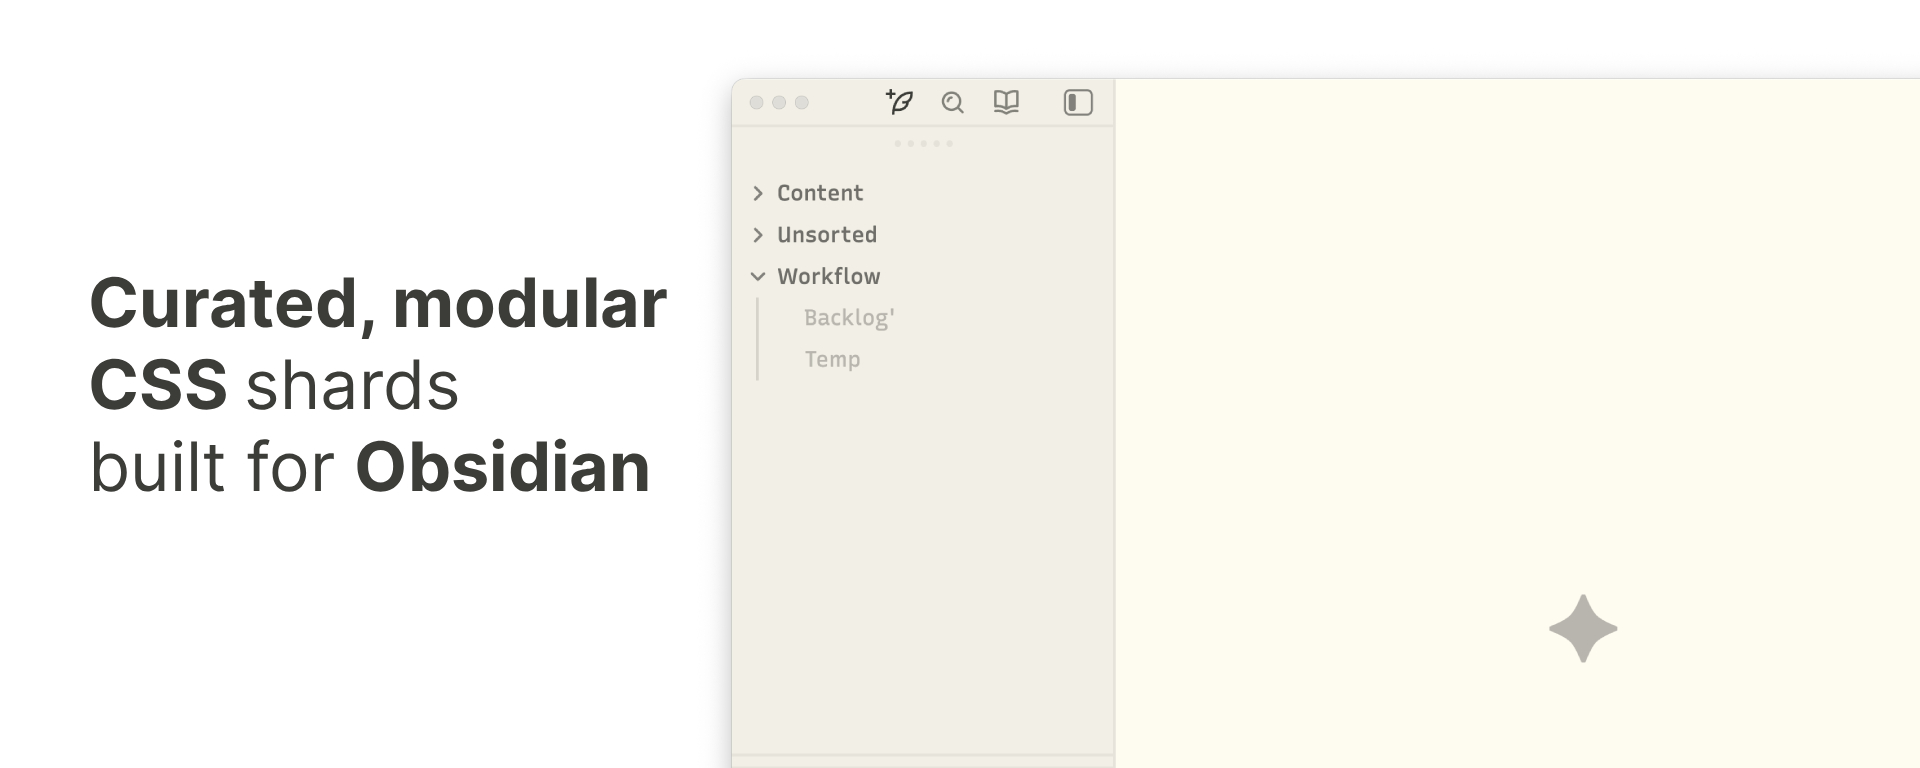
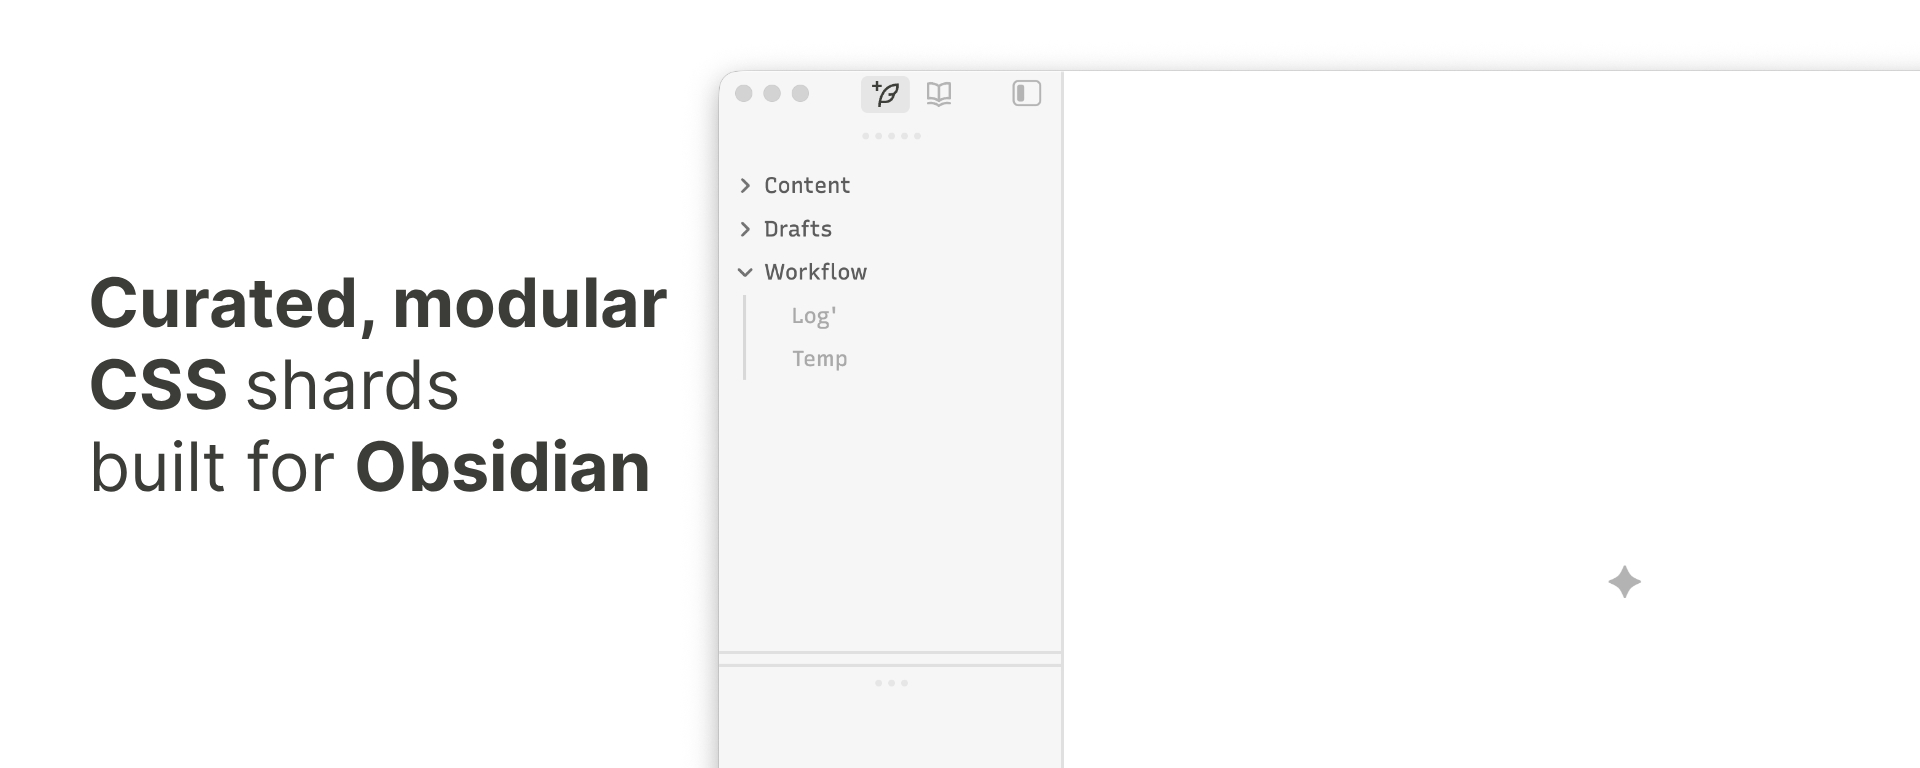
docs: rework features section with screenshots

diff --git a/README.md b/README.md
@@ -5,6 +5,10 @@ Built with SCSS, each "shard fragment" is a modular component designed to enhanc
 <br>
 
 - [Features](#features)
+  - [Command Palette](#command-palette)
+  - [Settings](#settings)
+  - [Plugin: Omnisearch](#plugin-omnisearch)
+  - [Enhancements](#enhancements)
 - [Development](#development)
   - [Quick Start](#quick-start)
   - [Continuous Build](#continuous-build)
@@ -17,16 +21,32 @@ Built with SCSS, each "shard fragment" is a modular component designed to enhanc
 
 Consider using [Recursive Sans Linear](https://www.recursive.design/), which complements the design and enhances readability.
 
-- **Command Palette**: Custom adjustments for improved navigation and user focus within the interface
-- **Enhanced Core UI**: CSS modifications to hide unnecessary elements - no Hider plugin required anymore
-- **Settings**: Streamlined vertical navigation and enhanced highlighting for external plugins
-- **New Tab**: Redesigned empty state for new tabs page
-- **Editor**: Active line indicator for improved focus
-- **Bullet Lists**: Animated transitions for collapsed list bullets
-- **Unique Checkbox**: Animated playful transitions
-- **External Links**: Addition of Unicode symbols for enhanced recognition
-- **Internal Links**: Subtle opacity adjustments for a cleaner interface.
-  <br>...
+### Command Palette
+
+Focused navigation with reduced visual noise.
+
+![](.github/preview-command-palette.jpg)
+
+### Settings
+
+Streamlined vertical nav, external plugin highlights, and a hotkeys panel with custom sort order.
+
+![](.github/preview-settings-hotkeys.jpg)
+
+### Plugin: Omnisearch
+
+Full-vault search with reduced visual noise and focused results.
+
+![](.github/preview-plugin-omnisearch.jpg)
+
+### Enhancements
+
+Additional refinements applied across the interface:
+
+- **Core UI**: hides unnecessary chrome — no Hider plugin required
+- **New Tab**: redesigned empty state
+- **Editor**: active line indicator and playful animated bullet/checkbox transitions
+- **Links**: Unicode symbols on external links · subtle opacity on internal links
 
 ## Development
 
